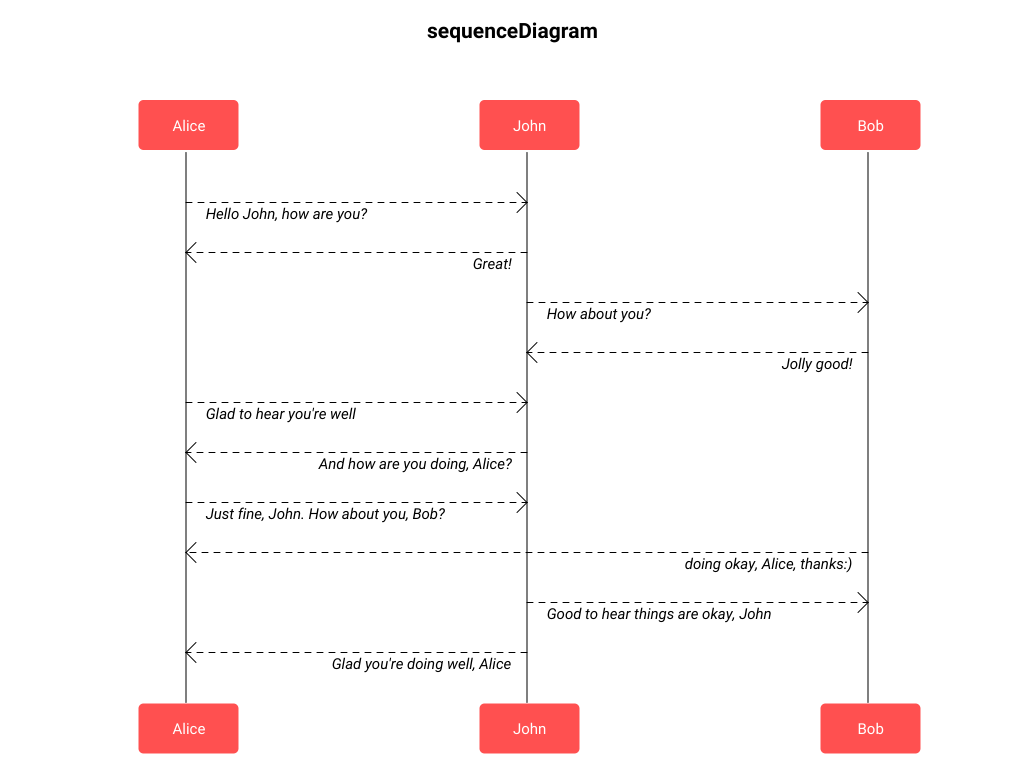
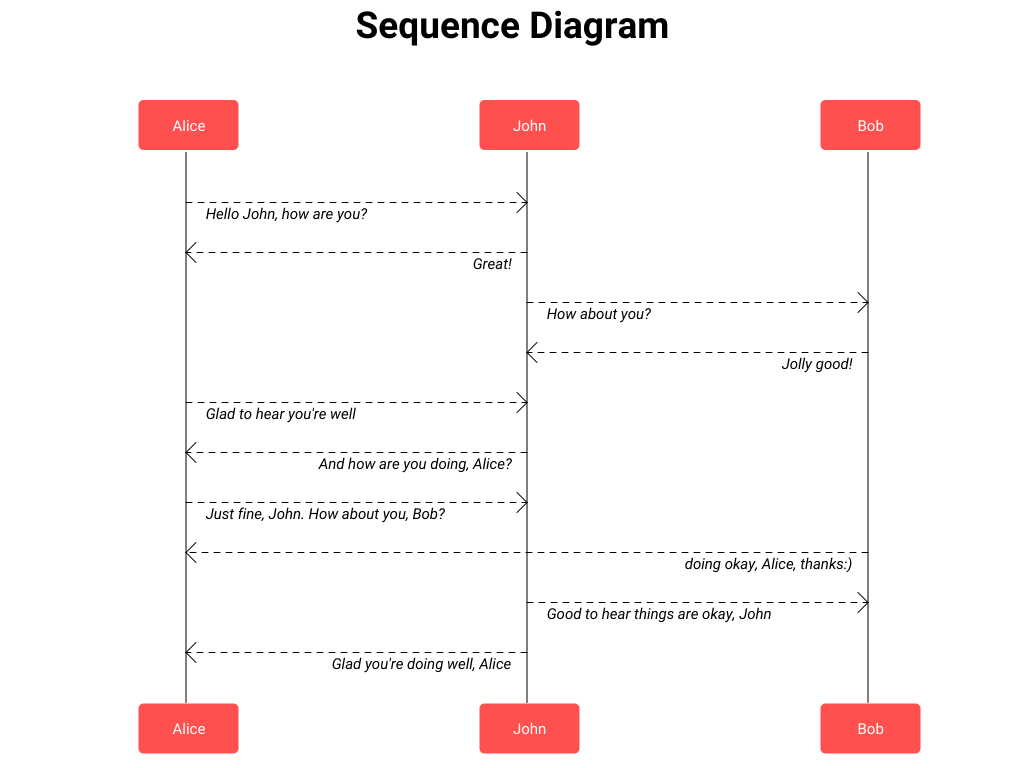
Enable debug and enlrage title fontsize

Changed region(s): [[0.3438, 0.0, 0.6562, 0.0625]]

diff --git a/cmd/zml_cli/zml_cli.go b/cmd/zml_cli/zml_cli.go
@@ -30,7 +30,6 @@ func main() {
 	dia.SetFontDir("/usr/share/texlive/texmf-dist/fonts/truetype/google/roboto")
 	dia.SetElementLabelFont(zml.Font{Name: "Roboto-Regular.ttf", Size: 15})
 	dia.SetLabelFont(zml.Font{Name: "Roboto-Italic.ttf", Size: 15})
-	dia.SetDebug(false)
 
 	sliceData := strings.Split(string(fileBytes), "\n")
 	firstLine := sliceData[0]
@@ -41,7 +40,7 @@ func main() {
 		title = matches[1]
 		sliceData = sliceData[1:]
 		dia.SetTitle(title)
-		dia.SetTitleFont(zml.Font{Name: "Roboto-Bold.ttf", Size: 21})
+		dia.SetTitleFont(zml.Font{Name: "Roboto-Bold.ttf", Size: 37})
 	}
 
 	relationRegexp := regexp.MustCompile(`^\[?([A-Za-z\s]+)\]?([-]+>{0,2})\[?([A-Za-z\s]+)\]?:?(.*)?`)
